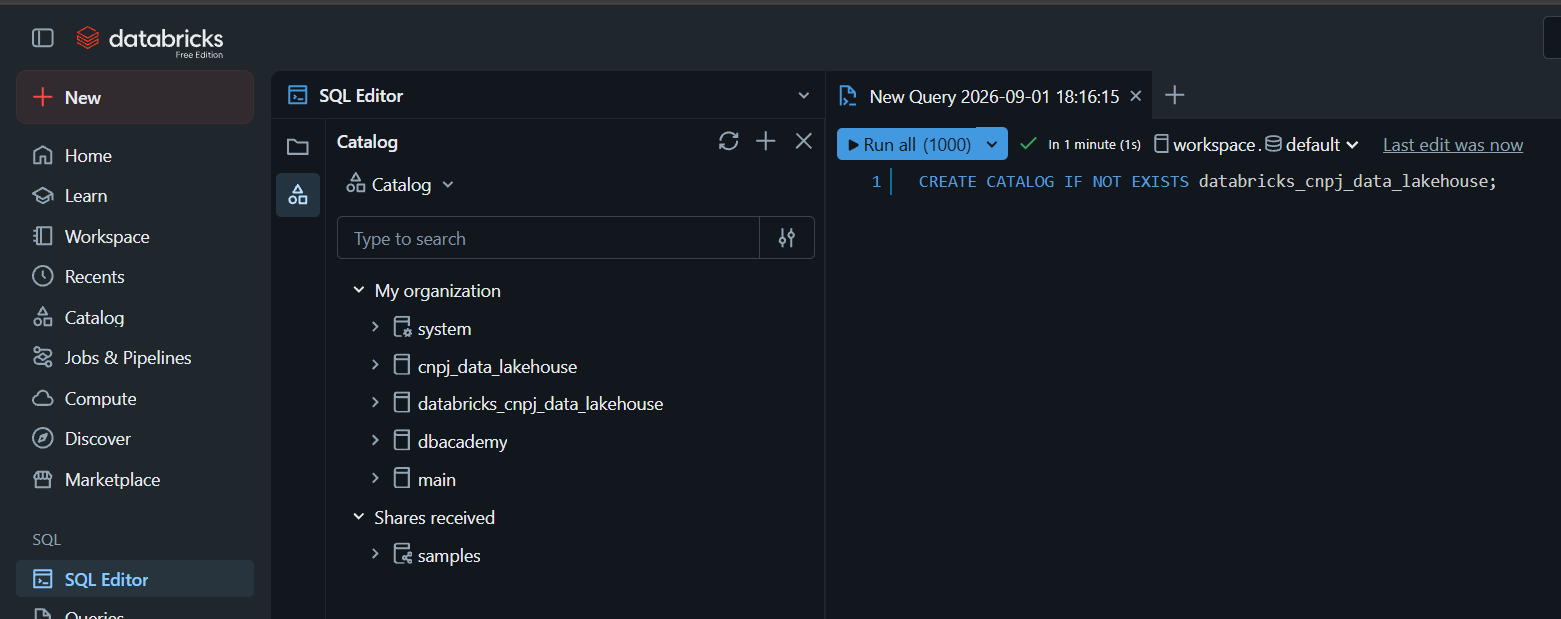
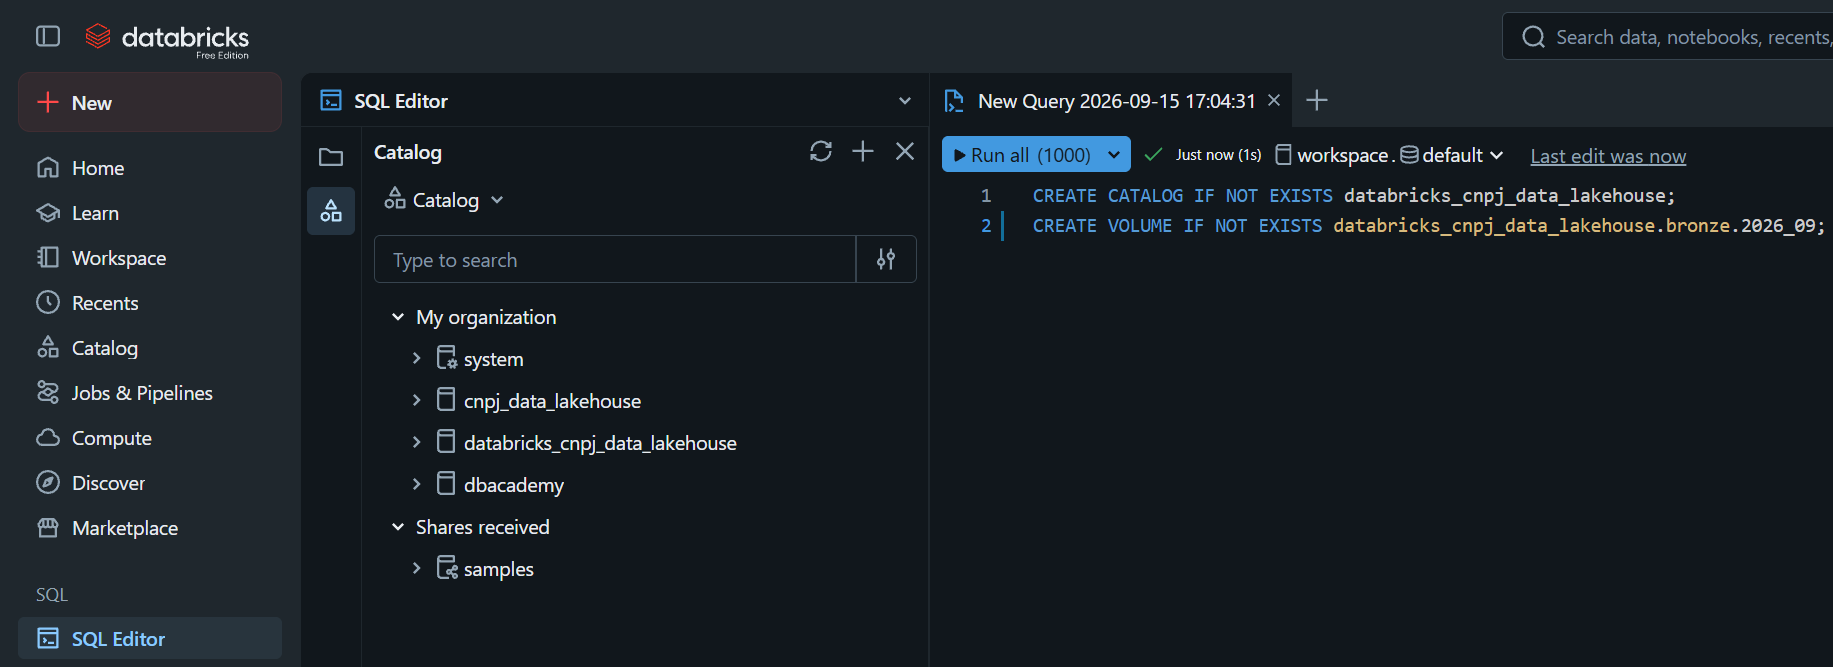
feat: Atualização da documentação.

diff --git a/README.md b/README.md
@@ -68,7 +68,9 @@ Job `databricks-cnpj-data-lakehouse-job` com três tasks encadeadas, todas em co
 
 ![job](imagens/job.png)
 
-- `ingestao_bronze`: Baixa o zip da Receita Federal, valida e descompacta.
+- `ingestao_bronze`: Descompacta os arquivos baixados manualmente da Receita Federal.
+     - Obs.: Recentemente, o servidor que hospeda os arquivos da Receita Federal, bloqueou o download automatizado via Databricks, sendo assim os arquivos precisam ser baixados e gravados manualmente.
+     - [Clique aqui](https://arquivos.receitafederal.gov.br/index.php/s/YggdBLfdninEJX9?dir=/2026-09) para baixar.
 - `ingestao_silver`: Lê os CSVs da bronze e grava as tabelas Delta na silver.
 - `dbt_silver_and_gold`: Executa os comandos "dbt deps" para instalar os pacotes e dependências e "dbt build" para rodar modelos e testes, cria tabelas Delta na silver com os dados brutos da Bronze, limpa e trata os dados gerando novas tabelas e finaliza criando um modelo Star Schema na camada Gold.
 
@@ -83,9 +85,27 @@ Job `databricks-cnpj-data-lakehouse-job` com três tasks encadeadas, todas em co
 
      ![SQL Query](imagens/2.png)
 
-3. Na aba "New Query...", digite "CREATE CATALOG IF NOT EXISTS databricks_cnpj_data_lakehouse;" e clique no botão "Run all (1000)":
-     
+3. Na aba "New Query...", digite ```CREATE CATALOG IF NOT EXISTS databricks_cnpj_data_lakehouse;
+CREATE VOLUME IF NOT EXISTS databricks_cnpj_data_lakehouse.bronze.2026_09;``` e clique no botão "Run all (1000)":
+          
      ![Criar catálogo](imagens/3.png)
+
+     - No menu lateral clique em "Catalog -> My organization -> databricks_cnpj_data_lakehouse -> bronze -> Volumes -> 2026_09":
+          - Clique com o botão direito no nome do volume "2026_09" e depois em "Upload to volume":     
+
+               ![Upload arquivos 1](imagens/3.1.png)               
+
+     - Clique em "browse -> Select files": 
+          
+          ![Upload arquivos 2](imagens/3.2.png)
+
+          - Selecione todos os arquivos "zip" que baixou:
+
+               ![Upload arquivos 3](imagens/3.3.png)
+
+          - Clique "Abrir" e depois em "Upload", e aguarde os arquivos serem salvos:
+
+               ![Upload arquivos 3](imagens/3.4.png)     
 
 4. No menu lateral do Databricks, clique em Workspace:
      
